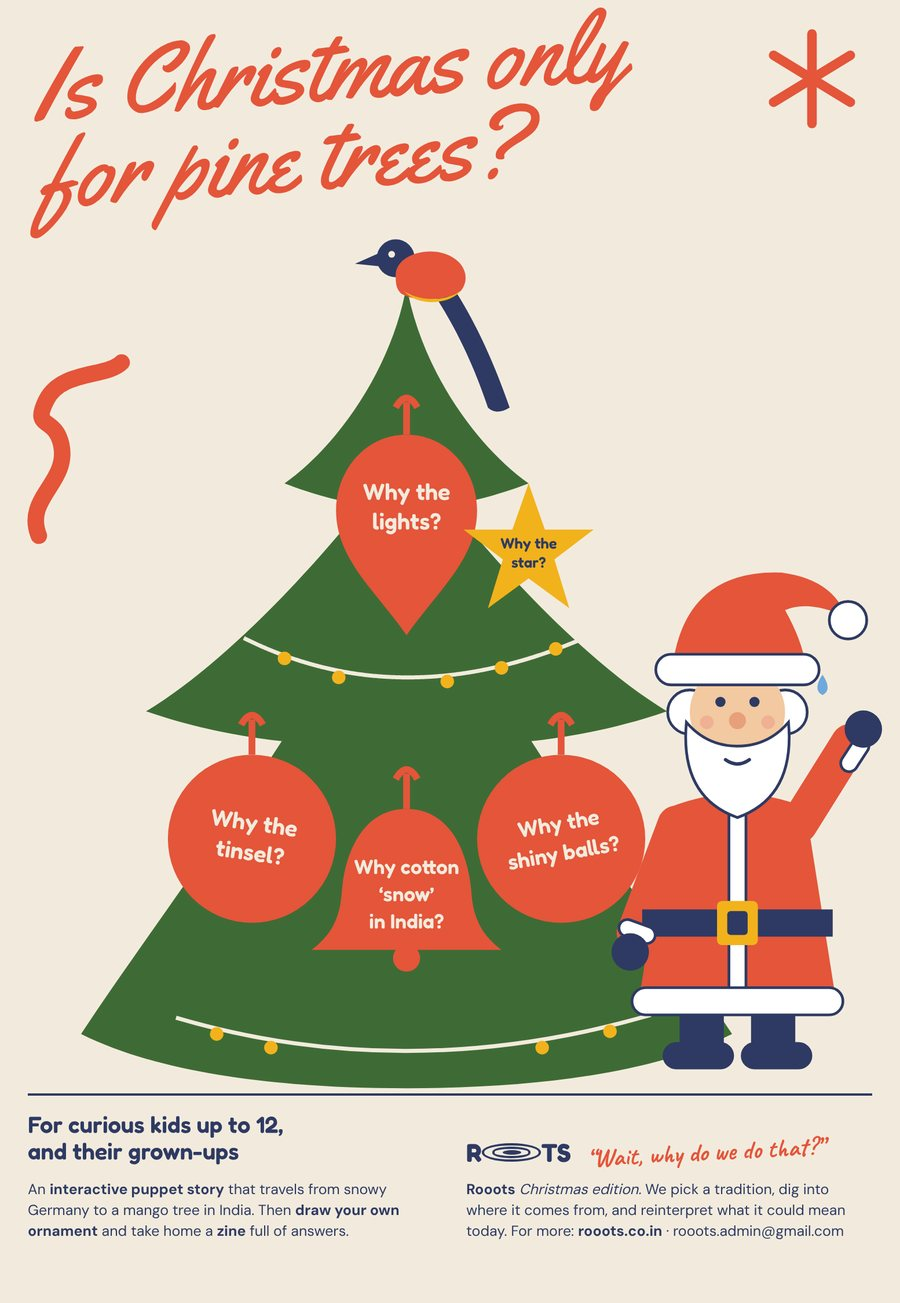
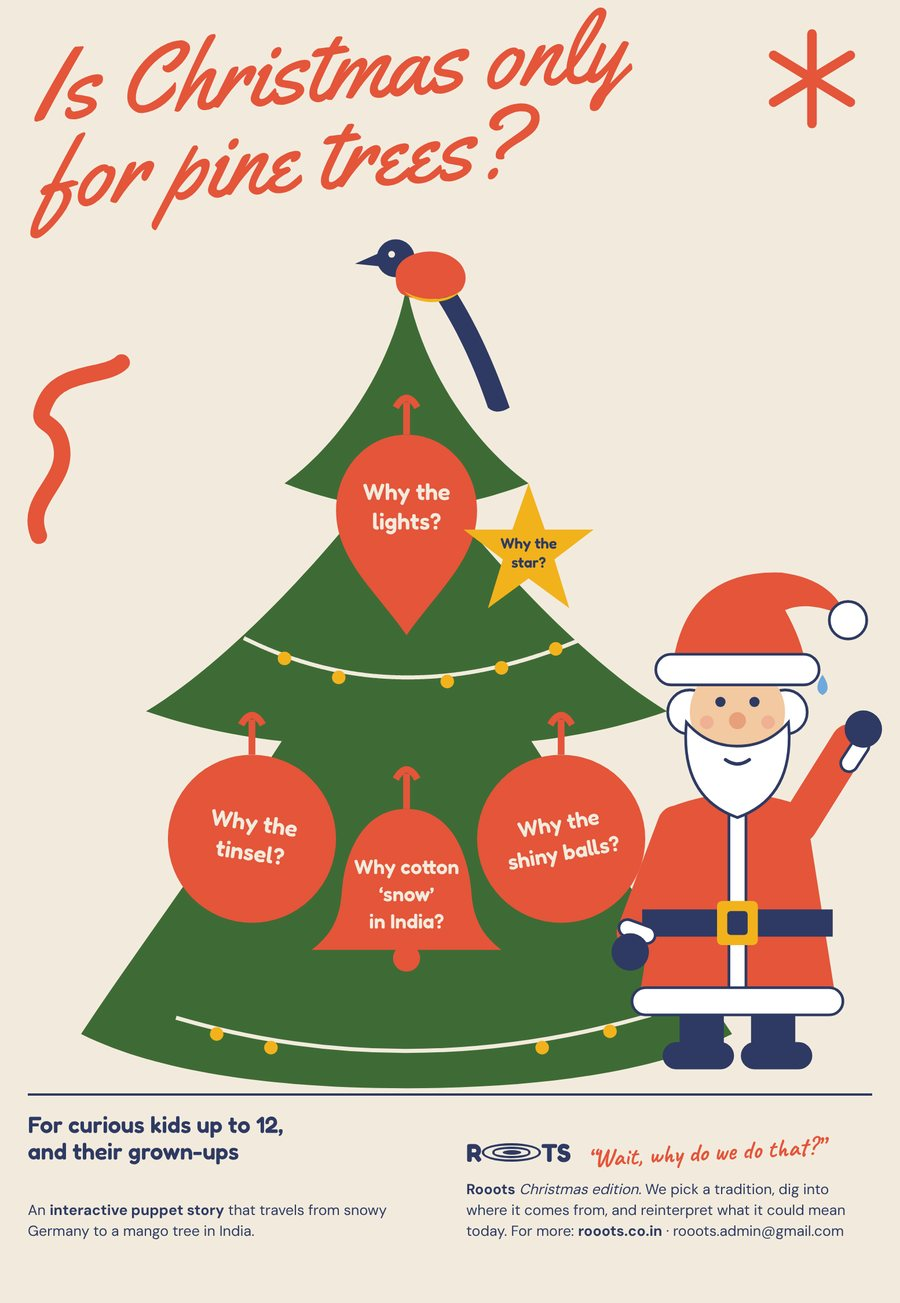
Christmas card: add disabled View details button, trim poster copy
Claude-Session: https://claude.ai/code/session_017a7SXymv2Zs4HbzuoBy9JW

Changed region(s): [[0.0311, 0.8903, 0.4356, 0.9517]]

diff --git a/index.html b/index.html
@@ -333,7 +333,10 @@
           <h3 style="margin: 16px 0 18px; font-family: 'Yellowtail', cursive; font-weight: 400; font-size: clamp(44px, 6vw, 72px); line-height: 0.95; color: var(--orange)">Is Christmas only for pine trees?</h3>
           <p style="margin: 0 0 14px">An <b>interactive puppet story</b> that travels from snowy Germany to a mango tree in India.</p>
           <p style="margin: 0; font-weight: 700">For curious kids up to 12, and their grown-ups</p>
-          <a class="btn" href="mailto:rooots.admin@gmail.com?subject=Is%20Christmas%20only%20for%20pine%20trees%3F" style="display: inline-block; margin-top: 24px; background: var(--wasabi); color: var(--cassis); text-decoration: none; font-weight: 700; padding: 14px 24px; border-radius: 999px">Keep me posted</a>
+          <div style="display: flex; flex-wrap: wrap; gap: 12px; margin-top: 24px">
+            <button type="button" disabled aria-disabled="true" title="Coming soon" style="font: inherit; font-weight: 700; padding: 14px 24px; border-radius: 999px; border: 2px solid var(--wasabi); background: transparent; color: var(--wasabi); opacity: 0.5; cursor: not-allowed">View details</button>
+            <a class="btn" href="mailto:rooots.admin@gmail.com?subject=Is%20Christmas%20only%20for%20pine%20trees%3F" style="display: inline-block; background: var(--wasabi); color: var(--cassis); text-decoration: none; font-weight: 700; padding: 14px 24px; border-radius: 999px">Keep me posted</a>
+          </div>
         </div>
       </div>
     </div>
